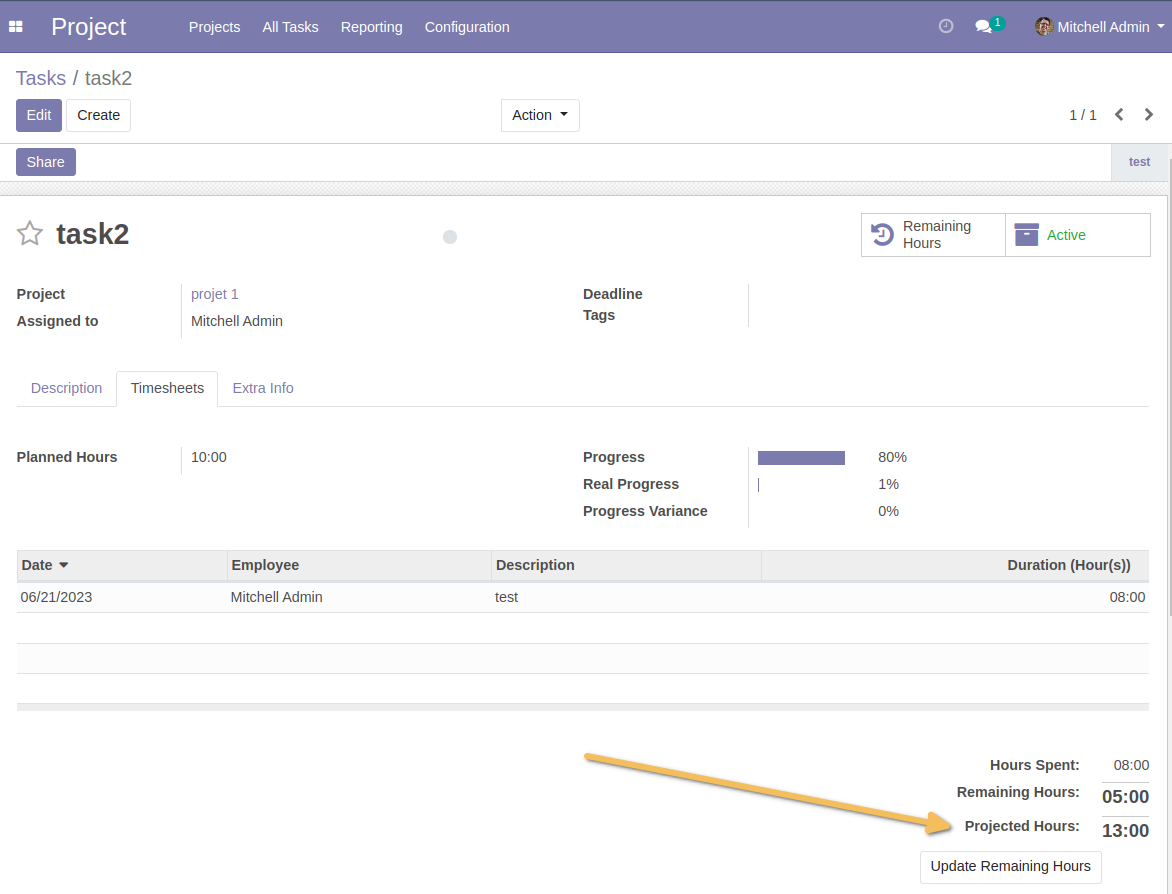
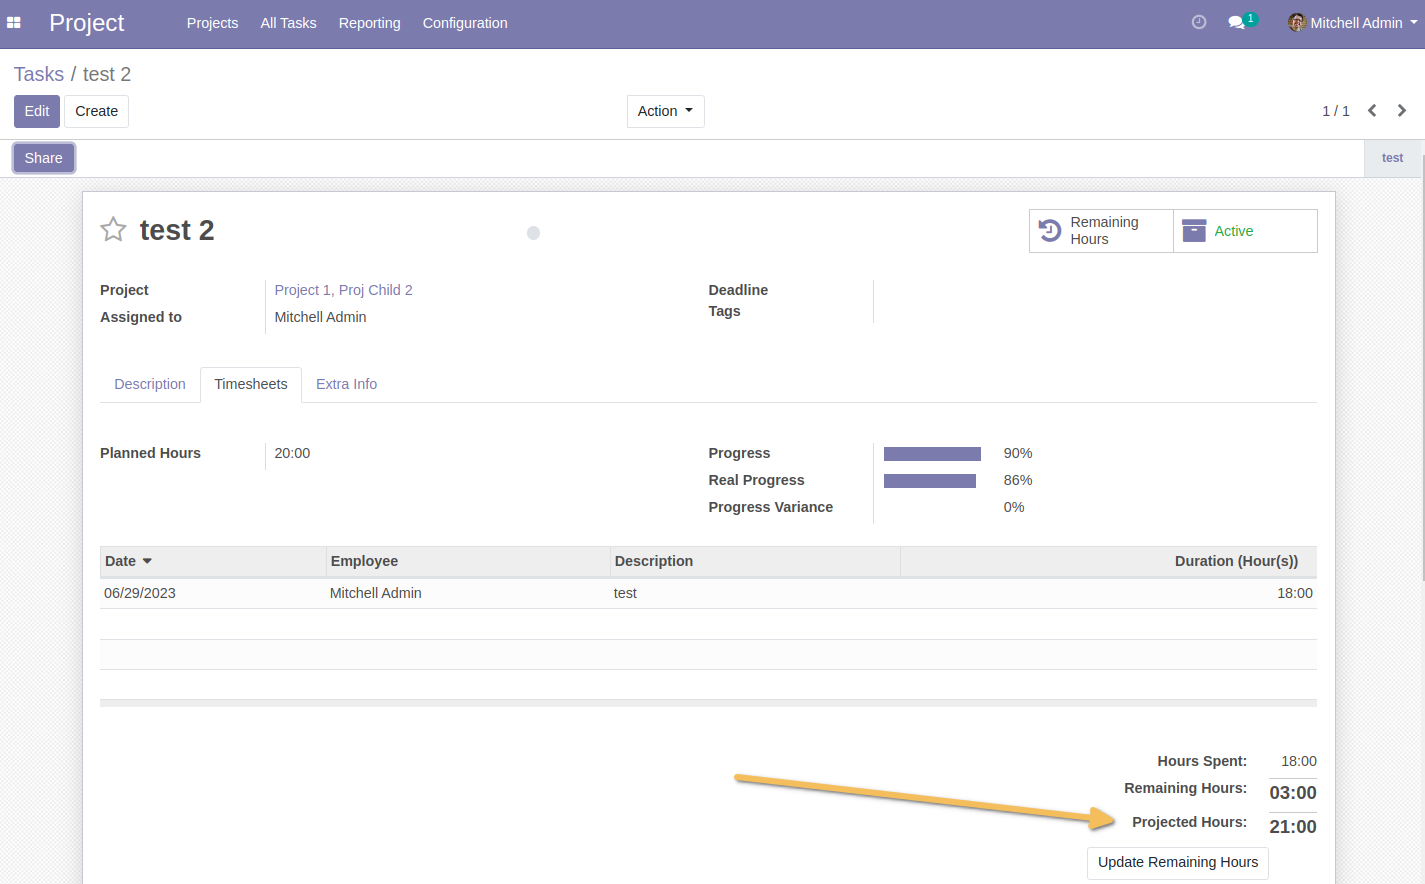
TA#53654 [FIX] unit tests and functionalities

diff --git a/project_progress_variance/tests/test_progress_variance.py b/project_progress_variance/tests/test_progress_variance.py
@@ -24,22 +24,22 @@ class TestCustomerReference(SavepointCase):
     def test_total_progress(self):
         self.assertEqual(self.project.total_progress, 0)
         self._load_analytic_line_remaining_hours_not_updated()
-        self.assertEqual(self.project.total_progress, 0.48)
+        self.assertEqual(self.project.total_progress, 47.83)
 
     def test_total_progress_remaining_hours_updated(self):
         self.assertEqual(self.project.total_progress, 0)
         self._load_analytic_line_with_remaining_hours_updated()
-        self.assertEqual(self.project.total_progress, 0.33)
+        self.assertEqual(self.project.total_progress, 32.5)
 
     def test_total_real_progress(self):
         self.assertEqual(self.project.total_real_progress, 0)
         self._load_analytic_line_remaining_hours_not_updated()
-        self.assertEqual(self.project.total_real_progress, 0.48)
+        self.assertEqual(self.project.total_real_progress, 47.83)
 
     def test_total_real_progress_remaining_hours_updated(self):
         self.assertEqual(self.project.total_real_progress, 0)
         self._load_analytic_line_with_remaining_hours_updated()
-        self.assertEqual(self.project.total_real_progress, 0.27)
+        self.assertEqual(self.project.total_real_progress, 27.08)
 
     def test_total_progress_variance(self):
         self.assertEqual(self.project.total_progress_variance, 0)
@@ -49,9 +49,9 @@ class TestCustomerReference(SavepointCase):
     def test_total_progress_variance_remaining_hours_updated(self):
         self.assertEqual(self.project.total_progress_variance, 0)
         self._load_analytic_line_with_remaining_hours_updated()
-        self.assertEqual(self.project.total_real_progress, 0.27)
-        self.assertEqual(self.project.total_progress, 0.33)
-        self.assertEqual(self.project.total_progress_variance, -0.06)
+        self.assertEqual(self.project.total_real_progress, 27.08)
+        self.assertEqual(self.project.total_progress, 32.5)
+        self.assertEqual(self.project.total_progress_variance, -5.42)
 
     def _load_analytic_line_remaining_hours_not_updated(self):
         self.task_1.planned_hours = 10

diff --git a/project_progress_variance/models/project_project.py b/project_progress_variance/models/project_project.py
@@ -37,9 +37,9 @@ class ProjectProject(models.Model):
             planned_hours = sum(project.task_ids.mapped("planned_hours"))
             effective_hours = sum(project.task_ids.mapped("effective_hours"))
             if planned_hours:
-                project.total_progress = effective_hours / planned_hours
+                project.total_progress = 100.0 * (effective_hours / planned_hours)
             else:
-                project.total_progress = 0
+                project.total_progress = 0.0
 
     @api.depends("task_ids.projected_hours", "task_ids.effective_hours")
     def _compute_total_real_progress(self):
@@ -47,9 +47,11 @@ class ProjectProject(models.Model):
             projected_hours = sum(project.task_ids.mapped("projected_hours"))
             effective_hours = sum(project.task_ids.mapped("effective_hours"))
             if projected_hours:
-                project.total_real_progress = effective_hours / projected_hours
+                project.total_real_progress = 100.0 * (
+                    effective_hours / projected_hours
+                )
             else:
-                project.total_real_progress = 0
+                project.total_real_progress = 0.0
 
     @api.depends("total_progress", "total_real_progress")
     def _compute_total_progress_variance(self):

diff --git a/project_projected_hours/models/project_task.py b/project_projected_hours/models/project_task.py
@@ -31,6 +31,6 @@ class ProjectTask(models.Model):
         for task in self:
             projected_hours = task.effective_hours + task.remaining_hours
             if projected_hours:
-                task.real_progress = task.effective_hours / projected_hours
+                task.real_progress = 100.0 * task.effective_hours / projected_hours
             else:
-                task.real_progress = 0
+                task.real_progress = 0.0

diff --git a/project_projected_hours/tests/test_projected_hours.py b/project_projected_hours/tests/test_projected_hours.py
@@ -35,7 +35,7 @@ class TestCustomerReference(SavepointCase):
             datetime(2023, 3, 24, 3), tz="EST", task_id=self.task_2, unit_amount=3
         )
 
-        self.assertEqual(self.task_2.real_progress, 0.15)
+        self.assertEqual(self.task_2.real_progress, 15)
 
     def _create_analytic_line(self, datetime_, tz=None, task_id=False, unit_amount=0):
         self.env["account.analytic.line"].with_context(tz=tz).create(

diff --git a/project_progress_variance/models/project_task.py b/project_progress_variance/models/project_task.py
@@ -18,4 +18,4 @@ class ProjectTask(models.Model):
     @api.depends("progress", "real_progress")
     def _compute_progress_variance(self):
         for task in self:
-            task.real_progress = task.real_progress - task.progress
+            task.progress_variance = task.real_progress - task.progress

diff --git a/project_progress_variance/__manifest__.py b/project_progress_variance/__manifest__.py
@@ -3,7 +3,7 @@
 
 {
     "name": "Project Progress Variance",
-    "version": "1.0.0",
+    "version": "1.0.1",
     "author": "Numigi",
     "maintainer": "Numigi",
     "website": "https://bit.ly/numigi-com",

diff --git a/project_projected_hours/__manifest__.py b/project_projected_hours/__manifest__.py
@@ -3,7 +3,7 @@
 
 {
     "name": "Project Projected Hours",
-    "version": "1.0.0",
+    "version": "1.0.1",
     "author": "Numigi",
     "maintainer": "Numigi",
     "website": "https://bit.ly/numigi-com",
